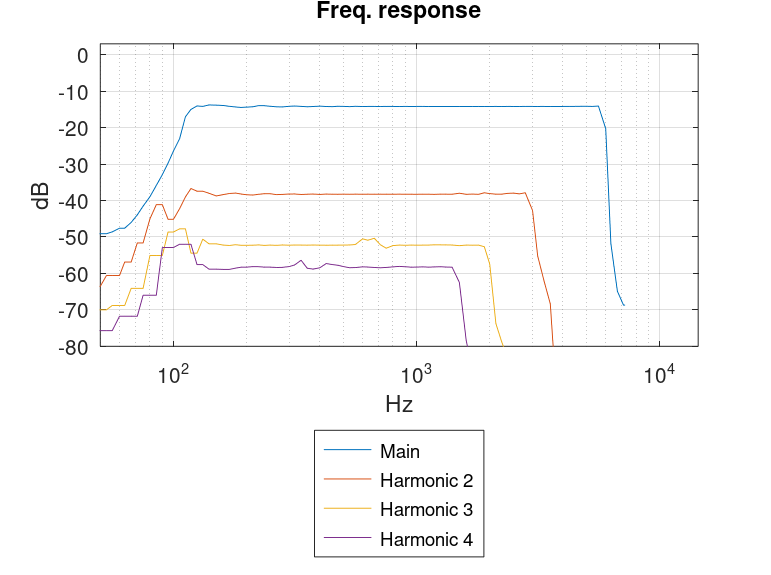
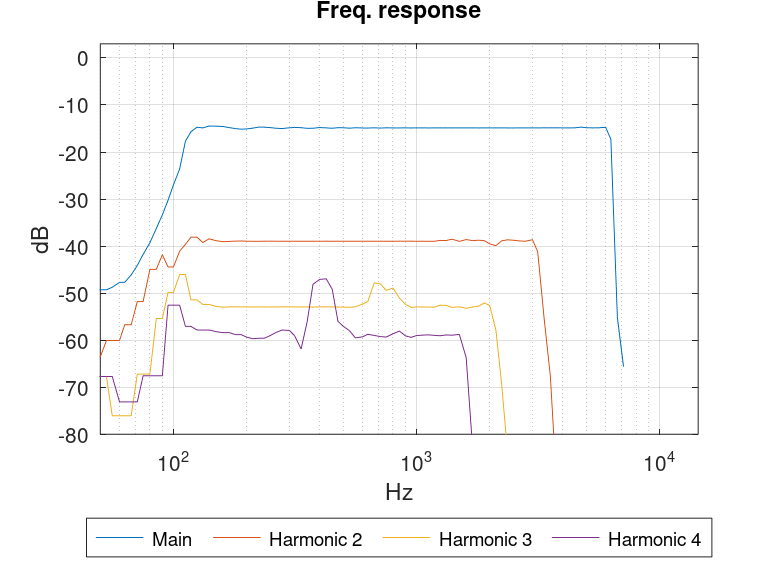
Sample file THD analyze

diff --git a/sample_analyze.m b/sample_analyze.m
@@ -1,0 +1,134 @@
+% Analyze sweep from frequency f1 to f2 in time T seconds. Assumes that the
+% samplefile starts from t=0 and its length is very close to T /fs samples.
+%
+% Copyright 2022 - 2024 Teemu Ikonen
+%
+function sample_analyze(T, f1, f2, samplefile)
+  [y, fs] = audioread(samplefile);
+  y = transpose(y);
+  printf('Sample rate %dHz. Duration %.2fs\n', fs, length(y)/fs);
+  samplefile =  strsplit(samplefile, '/')(end){1,1};
+
+  # Assume sample starts from t=0 and add silence in the sample
+  tdelta = T * .1;
+  y = padzero(y, (round(fs * tdelta) + length(y)));
+
+  t = [0: 1/fs: T];
+  f = isinelog(t, T, f1, f2);
+  L = length(y);
+  f = padzero(f, L);
+
+  %%%%%%%%%%%%%%%%%%%%%%%%%%%%%%%%%%
+  % Plot impulse response
+  H = fft(y) .* fft(f);
+  H(1) = 0; % No DC
+  h = real( ifft(H) );
+  figure;
+  plot(linspace(-T, tdelta, length(h)), h);
+  title("Impulse response");
+  grid on;
+  % Mark few first harmonics
+  hr = nthharmonic(2, T, f1, f2);
+  line([hr hr], [-30 0]);
+  hr = nthharmonic(3, T, f1, f2);
+  line([hr hr], [-30 0]);
+  hr = nthharmonic(4, T, f1, f2);
+  line([hr hr], [-30 0]);
+  axis([-T tdelta -50 100]);
+  xlabel("t (s)");
+  grid on;
+  outfile=sprintf('out/deconvoluted_impulse_%s', samplefile);
+  audiowrite(outfile, h/max(h), fs);
+  printf('Wrote %s\n', outfile);
+
+  dbTicks = [-100: 10: 110];
+  dbScale = [f1/2 fs -80 +3];
+
+  %%%%%%%%%%%%%%%%%%%%%%%%%%%%%%%%%%
+  % Plot frequency response of full impulse
+  [freq, Hdb] = dbfft_smooth(h, fs, 12);
+  figure;
+  plot(freq, Hdb);
+  title('Impulse response');
+  xlabel("Hz")
+  ylabel("dB");
+  axis(dbScale);
+  set(gca, "xscale", "log");
+  yticks(dbTicks);
+  grid on;
+
+  %%%%%%%%%%%%%%%%%%%%%%%%%%%%%%%%%%
+  % Main impulse
+  cut = nthharmonic(1.05, T, f1, f2) + T;
+  cutn = round(cut * fs);
+  hfundamental = h(cutn : end);
+  hfundamental *= length(hfundamental)/length(h); % scale impulse amplitude to match length
+
+  %outfile=sprintf('out/main_impulse_%s', samplefile);
+  %audiowrite(outfile, hfundamental/max(hfundamental), fs);
+  %printf('Wrote %s\n', outfile);
+
+  %%%%%%%%%%%%%%%%%%%%%%%%%%%%%%%%%%
+  % Plot frequency response of the main impulse
+  [freq, Hfdb] = dbfft_smooth(hfundamental, fs, 12);
+  figure;
+  plot(freq, Hfdb, 'DisplayName', 'Main');
+  title("Frequency response");
+  xlabel("Hz")
+  ylabel("dB");
+  axis(dbScale);
+  set(gca, "xscale", "log");
+  yticks(dbTicks);
+  grid on;
+  hold on;
+
+  %%%%%%%%%%%%%%%%%%%%%%%%%%%%%%%%%%
+  % Plot frequency response of 3 first harmonic impulses
+  for i=2:4
+    %figure
+    [hi, t1, t2] = extract_harmonic(T, f1, f2, fs, h, i);
+    % debug extraction
+    %printf('Harmonic %d (%f, %f)\n', i, t1 - T, t2 - T);
+    %plot(linspace(t1 - T, t2 - T, length(hi)), hi);
+
+    hi *= length(hi)/length(h);
+    % Harmonic is shifted in frequency so that it can be mapped on to the original
+    % fundamental.
+    [freq, Xdb] = dbfft_smooth_shift(hi, fs, 8, i);
+    if i <= 4
+      plot(freq, Xdb, 'DisplayName', sprintf('Harmonic %d', i));
+    endif
+    hrs(i,:) = 10.^(Xdb/20);
+  endfor
+
+  legend('location', 'southoutside', "orientation", "horizontal");
+
+
+    %%%%%%%%%%%%%%%%%%%%%%%%%%%%%%%%%%
+  % THD as percentage
+  figure
+  X = 10.^(Hfdb/20);
+
+  for i=2:size(hrs)(1)
+    hrs(1,:) = hrs(1,:) + hrs(i,:).^2;
+  endfor
+
+  THD = sqrt(hrs(1,:))./X * 100;
+  plot(freq, THD);
+  title("THD %");
+  axis([f1 f2 0 10]);
+  set(gca, "xscale", "log");
+  xlabel("Hz")
+  ylabel("THD %");
+  grid on;
+
+  % Dump data to a CSV file.
+  csvfilename = sprintf('out/data_%s.csv', strsplit(samplefile, '.'){1});
+  data = {freq, Hfdb, THD};
+  fid = fopen(csvfilename,'w'); fprintf(fid, "Freq,Main(dB),THD(%%)\n"); fclose(fid);
+  m = cell2mat (data')';
+  dlmwrite(csvfilename, m, '-append');
+  printf('Wrote %s\n', csvfilename);
+
+endfunction
+

diff --git a/example_thd_analyze.m b/example_thd_analyze.m
@@ -104,7 +104,7 @@ function example_thd_analyze(T, f1, f2, fs)
   [freq, Hdb] = dbfft_smooth(h, fs, 12);
   figure;
   plot(freq, Hdb);
-  title('Impulse response (main)');
+  title('Impulse response');
   xlabel("Hz")
   ylabel("dB");
   axis(dbScale);
@@ -125,7 +125,7 @@ function example_thd_analyze(T, f1, f2, fs)
   [freq, Hfdb] = dbfft_smooth(hfundamental, fs, 12);
   figure;
   plot(freq, Hfdb, 'DisplayName', 'Main');
-  title("Freq. response");
+  title("Frequency response");
   xlabel("Hz")
   ylabel("dB");
   axis(dbScale);
@@ -153,7 +153,7 @@ function example_thd_analyze(T, f1, f2, fs)
     hrs(i,:) = 10.^(Xdb/20);
   endfor
 
-  legend('location', 'southoutside');
+  legend('location', 'southoutside', "orientation", "horizontal");
 
   %%%%%%%%%%%%%%%%%%%%%%%%%%%%%%%%%%
   % THD as percentage

diff --git a/sample_fftdb.m b/sample_fftdb.m
@@ -1,15 +1,6 @@
 % Reads sample file and computes FFT power in dB
 function sample_fftdb(samplefile)
   [y, fs] = audioread(samplefile);
-  if size(y)(1) < size(y)(2)
-    y = transpose(y)
-  endif
-
-  % if stereo track take left track
-  if size(y)(2) > 1
-    y = y(:,1);
-  endif
-
   [freq, Ydb] = dbfft_smooth(y, fs, 8);
   figure
   plot(freq, Ydb);

diff --git a/README.md b/README.md
@@ -16,14 +16,17 @@ Copyright 2022 - 2024 Teemu Ikonen
 
 # Examples
 
+### example_impulse
 `example_impulse()` Ideal case. implements a pure undistorted sweep signal deconvolution that produces an impulse.
 
 ![Impulse](images/impulse.png "Impulse Response")
 
+### example_harmonics
 `example_harmonics()` demonstrates analysis of an distorted signal. The example adds asymmetric clipping distortion in the signal that produces infinite number of odd and even harmonics and demonstrates how these harmonics fall on known delayed peaks in the impulse response.
 
 ![Harmonics](images/harmonics.png "Impulse Response with harmonics")
 
+### example_thd_analyze
 `example_thd_analyze(T, fstart, fend, samplerate)` Total Harmonic Distortion (THD) analysis. Function accepts sweep duration, start and end frequency and the sample rate. It generates a sweep signal and adds known amount of 2nd, 3rd and 4th harmonics that should always produce 6.4% THD. This signal is then analyzed and results plotted.
 
     >> T = 1
@@ -34,6 +37,23 @@ Copyright 2022 - 2024 Teemu Ikonen
 
 ![Frequency response](images/freq_response.png "Frequency Response")
 ![Harmonics](images/thd.png "Total Harmonic Distortion (THD)")
+
+### sample_analyze
+`sample_analyze(T, fstart, fend, filename)` Read measured sample file and performs THD analysis. Analysis intermediate files and results are stored in out folder.
+
+    >> filename = data/closed_loop.wav;
+    >> sample_analyze(5, 20, 5500, filename);    
+    Sample rate 44100Hz. Duration 5.06s
+    Wrote out/deconvoluted_impulse_closed_loop.wav    
+    Wrote out/data_closed_loop.csv
+
+![Sample frequency response](images/sample_freq_response.png "Frequency Response")
+
+Data must start immediately in the samplefile. The sweep range must match match exactly the excitation sweep that was used to record the sample file. Wrong frequency skews the results.
+ Here 50 was used starting frequency instead of correct 20.
+
+![Incorrect frequency response](images/sample_freq_response_wrong_freq.png "Incorrect frequency response")
+
 
 ### Bandwidth and Harmonics
 
@@ -48,9 +68,10 @@ If you want to analyze 2nd harmonics up to e.g. 6000Hz you must generate the swe
     >> tfreqsinelog(6000, 1, 200, 18000)
     ans = 0.7559    
 
-## Notable  functions
-Examples uses following functions.
+## Library  functions
+Examples are based on following functions.
 
+### sinelog, isinelog
 `y = sinelog(t, fstart, fend, samplerate)` and `isinelog(t, fstart, fend, samplerate)` generate a sweep and its inverse filter.
 
     >> T = 1
@@ -62,14 +83,17 @@ Examples uses following functions.
     >> plot(t,y);
     >>
 
+### dbfft_smooth
 `[freq, Xdb] = dbfft_smooth(x, fs, N)` Smoothed out frequency power spectrum in dB. Returns frequency points for Renard 40 frequencies up to sampling rate averaged over by N neighbouring octaves.
 
     >> [freq, Ydb] = dbfft_smooth(y, fs, 8);
     >> plot(freq, Ydb)
     >> set(gca, "xscale", "log");
 
+### nthharmonic
 `t = nthharmonic(N, T, f1, f2)` Returns the expected time delay for Nth harmonic for the given sweep parameters.
 
+### extract_harmonic
 `[hn, t1, t2] = extract_harmonic(T, f1, f2, Fs, h, N)` extracts the Nth harmonic impulse from the deconvolution result h. The t1 and t2 are the end and start times of the extracted pulse.
 
 ## References
